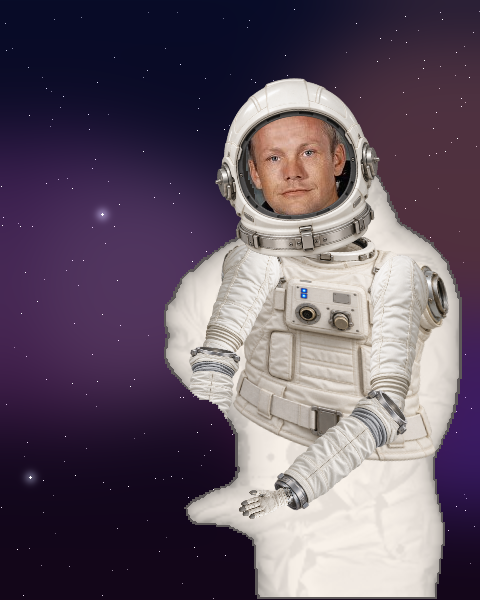
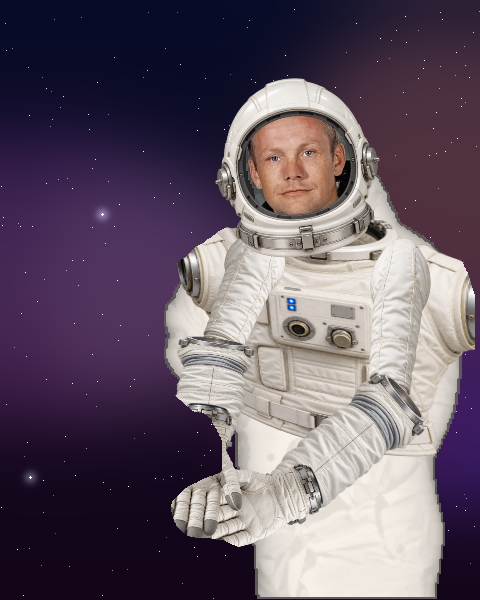
Unify EVA body proportions and enlarge connected gloves

Changed region(s): [[0.3438, 0.36, 1.0, 0.93]]

diff --git a/fruit-ninja-cv/suit_rig.py b/fruit-ninja-cv/suit_rig.py
@@ -166,6 +166,7 @@ class SuitRenderer:
         self.last_parts = []
         self.last_ms = 0.
         self._widths={}
+        self._body_size=None
         self._face_calibration=None
 
     def reset(self):
@@ -173,6 +174,7 @@ class SuitRenderer:
         self._head_time = None
         self.last_parts = []
         self._widths={}
+        self._body_size=None
         self._face_calibration=None
 
     def _head(self, face, pose, now):
@@ -208,34 +210,43 @@ class SuitRenderer:
             self.head = None
         return self.head
 
+    def body_scale(self, pose, mask):
+        """One shared garment size from shoulders and robust torso cross-sections.
+
+        These are image-space widths, not an inferred physical circumference.
+        Keep a generous fit and never resize left/right limbs independently.
+        """
+        shoulder=float(np.linalg.norm(pose.points[11,:2]-pose.points[12,:2]))
+        if shoulder<8:return shoulder
+        top=pose.points[[11,12],:2].mean(axis=0)
+        bottom=(pose.points[[23,24],:2].mean(axis=0)
+                if all(pose.valid(i) for i in (23,24)) else top+(0,shoulder*1.4))
+        samples=[]
+        for t in (.25,.4,.55,.7):
+            cx,cy=np.rint(top*(1-t)+bottom*t).astype(int)
+            if not (0<=cy<mask.shape[0] and 0<=cx<mask.shape[1] and mask[cy,cx]):continue
+            left=right=cx
+            limit=int(shoulder*.85)
+            while left>max(0,cx-limit) and mask[cy,left-1]:left-=1
+            while right<min(mask.shape[1]-1,cx+limit) and mask[cy,right+1]:right+=1
+            samples.append(right-left)
+        measured=max(shoulder,float(np.percentile(samples,35))*1.12 if samples else shoulder)
+        measured=min(measured,shoulder*1.65)
+        if self._body_size is not None and abs(measured/self._body_size-1)<.15:
+            measured=self._body_size*.6+measured*.4
+        self._body_size=measured
+        return measured
+
     def _limb(self, asset, label, a, b, width, pose, mask=None, torso=None):
-        endpoints = pose.segment(a, b)
-        if endpoints is None or np.linalg.norm(endpoints[1]-endpoints[0]) < 3:
-            return None
-        if mask is not None:
-            midpoint=endpoints.mean(axis=0)
-            inside=(torso is not None and cv2.pointPolygonTest(torso[[0,1,3,2]],tuple(map(float,midpoint)),False)>=0)
-            if not inside or asset=='upper_arm':
-                delta=endpoints[1]-endpoints[0]
-                normal=np.array((delta[1],-delta[0]))/max(np.linalg.norm(delta),1)
-                span=np.linspace(-width*.95,width*.95,65)
-                sizes=[]
-                for fraction in (.3,.5,.7):
-                    center=endpoints[0]+delta*fraction
-                    samples=np.rint(center+span[:,None]*normal).astype(int)
-                    valid=(samples[:,0]>=0)&(samples[:,0]<mask.shape[1])&(samples[:,1]>=0)&(samples[:,1]<mask.shape[0])
-                    hits=np.zeros(65,bool)
-                    hits[valid]=mask[samples[valid,1],samples[valid,0]]>0
-                    if not hits[32]:continue
-                    left=right=32
-                    while left>0 and hits[left-1]:left-=1
-                    while right<64 and hits[right+1]:right+=1
-                    sizes.append(span[right]-span[left])
-                if sizes:
-                    measured=float(np.clip(np.percentile(sizes,35)*1.06,width*.8,width*1.75))
-                    self._widths[label]=measured/width
-            width*=self._widths.get(label,1.)
-        return self._part(asset, label, endpoints, width)
+        endpoints=pose.segment(a,b)
+        if endpoints is None or np.linalg.norm(endpoints[1]-endpoints[0])<3:return None
+        # Overlap cuffs at each joint; do not expose transparent asset margins.
+        delta=endpoints[1]-endpoints[0]
+        fitted=np.array((endpoints[0]-delta*.10,endpoints[1]+delta*.10))
+        part=self._part(asset,label,fitted,width)
+        part['fit_endpoints']=fitted
+        part['endpoints']=endpoints
+        return part
 
     def _part(self, asset, label, endpoints, width):
         sprite, meta = self.assets[asset], self.meta[asset]
@@ -248,7 +259,7 @@ class SuitRenderer:
             normal=matrix[:,0].copy()
             matrix[:,2]+=normal*(2*anchors[0,0])
             matrix[:,0]=-normal
-        return dict(name=label, asset=asset, matrix=matrix, endpoints=np.asarray(endpoints).copy())
+        return dict(name=label, asset=asset, matrix=matrix, endpoints=np.asarray(endpoints).copy(),width=float(width))
 
     def _torso(self, pose, bbox, face):
         if pose is not None and all(pose.valid(i) for i in (11, 12)):
@@ -385,17 +396,23 @@ class SuitRenderer:
         cv2.copyTo(base,region,frame)
         width=0
         if pose is not None and pose.segment(11,12) is not None:
-            width=float(np.linalg.norm(pose.points[11,:2]-pose.points[12,:2]))
+            width=self.body_scale(pose,player)
         commands=[]
         quad=self._torso(pose,bbox,face_box)
         if quad is not None and pose is not None:
             quad=self._fit_waist(quad,player)
+            span=quad[1]-quad[0]
+            length=float(np.linalg.norm(span))
+            if length>2 and width>=8:
+                center=(quad[0]+quad[1])/2
+                half=span/length*max(length,width*1.1)/2
+                quad[0],quad[1]=center-half,center+half
         if width>=8:
             for side,indices in [('l',(11,13,15,19,23,25,27,31)),
                                  ('r',(12,14,16,20,24,26,28,32))]:
                 sh,el,wr,fi,hip,knee,ankle,toe=indices
-                for asset,a,b,factor,layer in [('thigh',hip,knee,.42,0),('shin',knee,ankle,.34,1),
-                                              ('upper_arm',sh,el,.42,20),('forearm',el,wr,.29,40)]:
+                for asset,a,b,factor,layer in [('thigh',hip,knee,.53,0),('shin',knee,ankle,.48,1),
+                                              ('upper_arm',sh,el,.46,20),('forearm',el,wr,.44,40)]:
                     part=self._limb(asset,asset+'_'+side,a,b,width*factor,pose,player,quad)
                     if part is not None:
                         # Far arms go behind the torso; near forearms cross in front.
@@ -408,18 +425,35 @@ class SuitRenderer:
                     direction=(b-a)/max(np.linalg.norm(b-a),1)
                     hand=np.array((b,b+direction*width*.27))
                 if hand is not None:
-                    commands.append((45,self._part('glove','glove_'+side,hand,width*.26)))
+                    direction=hand[1]-hand[0]
+                    length=float(np.linalg.norm(direction))
+                    if length<width*.12 and pose.segment(el,wr) is not None:
+                        a,b=pose.segment(el,wr);direction=b-a;length=float(np.linalg.norm(direction))
+                    direction=direction/max(length,1)
+                    wrist=hand[0].copy()
+                    hand=np.array((wrist-direction*width*.08,
+                                   wrist+direction*max(width*.40,min(np.linalg.norm(hand[1]-wrist),width*.62))))
+                    commands.append((45,self._part('glove','glove_'+side,hand,width*.46)))
                 foot=pose.segment(ankle,toe)
                 if foot is not None:
                     if np.linalg.norm(foot[1]-foot[0])<width*.17:
                         foot[1]=foot[0]+(0,width*.25)
-                    commands.append((2,self._part('boot','boot_'+side,foot,width*.34)))
+                    commands.append((2,self._part('boot','boot_'+side,foot,width*.50)))
         if quad is not None:
             sprite=self.assets['torso']
             source_quad=np.asarray(self.meta['torso']['quad'],np.float32)*(sprite.image.shape[1],sprite.image.shape[0])
             # getPerspectiveTransform wants perimeter order, not two rows.
             matrix=cv2.getPerspectiveTransform(source_quad[[0,1,3,2]].astype(np.float32),quad[[0,1,3,2]])
             commands.append((10,dict(name='torso',asset='torso',matrix=matrix,endpoints=quad)))
+        if width>=8:
+            margin=max(2,min(18,round(width*.055)))
+            kernel=cv2.getStructuringElement(cv2.MORPH_ELLIPSE,(margin*2+1,margin*2+1))
+            padded=cv2.dilate(player,kernel)
+            # Flood exterior background from an explicit padded image border.
+            exterior=cv2.copyMakeBorder((player==0).astype(np.uint8),1,1,1,1,cv2.BORDER_CONSTANT,value=1)
+            cv2.floodFill(exterior,None,(0,0),2)
+            allowed=(player>0)|((exterior[1:-1,1:-1]==2)&(padded>0))
+            clip=(allowed.astype(np.uint8)*255)
         # Keep upper-arm/torso below the helmet, wrists/gloves can occlude it.
         for layer,part in sorted(commands,key=lambda item:item[0]):
             if layer>=40:

diff --git a/fruit-ninja-cv/tests/test_suit_rig.py b/fruit-ninja-cv/tests/test_suit_rig.py
@@ -186,3 +186,24 @@ def test_torso_waist_adapts_to_body_outline_not_only_distance_between_hip_joints
     r=SuitRenderer();r.render(raw.copy(),raw,wide,pose=pose,now=0)
     second=next(p for p in r.last_parts if p['name']=='torso')['endpoints']
     assert np.linalg.norm(second[3]-second[2])>np.linalg.norm(first[3]-first[2])
+
+
+def test_common_fit_uses_torso_outline_and_is_bilateral():
+    pose=sample_pose();mask=np.zeros((200,160),np.uint8);mask[55:150,20:140]=255
+    r=SuitRenderer()
+    scale=r.body_scale(pose,mask)
+    assert scale>=np.linalg.norm(pose.points[11,:2]-pose.points[12,:2])
+    raw=np.full((200,160,3),80,np.uint8)
+    r.render(raw.copy(),raw,mask,pose=pose,now=0)
+    parts={p['name']:p for p in r.last_parts}
+    assert parts['forearm_l']['width']==parts['forearm_r']['width']
+    assert parts['glove_l']['width']>=parts['forearm_l']['width']
+
+
+def test_short_finger_projection_does_not_create_a_tiny_glove():
+    pose=sample_pose();pose.points[19,:2]=pose.points[15,:2]+(0,1)
+    raw=np.full((200,160,3),80,np.uint8)
+    r=SuitRenderer();r.render(raw.copy(),raw,np.full((200,160),255,np.uint8),pose=pose,now=0)
+    glove=next(p for p in r.last_parts if p['name']=='glove_l')
+    forearm=next(p for p in r.last_parts if p['name']=='forearm_l')
+    assert np.linalg.norm(glove['endpoints'][1]-glove['endpoints'][0])>=forearm['width']*.8

diff --git a/docs/astronaut-suit.md b/docs/astronaut-suit.md
@@ -74,7 +74,7 @@ Körperpunkte sind dann deterministische Testeingaben. `--models` nutzt zusätzl
 die echten lokalen Netze auf dem vorhandenen gemeinfreien NASA-Porträt.
 Es werden keine privaten Team- oder Kamerafotos benötigt.
 
-**Tests: 286 bestanden, 0 fehlgeschlagen, 0 Fehler, 0 übersprungen.**
+**Tests: 288 bestanden, 0 fehlgeschlagen, 0 Fehler, 0 übersprungen.**
 
 Gezielte Regressionen decken Gesichtspixel im Visier, Originalpuffer,
 Hintergrund im Helminnenraum, Alpha-Ränder, Rotation/Anker, geclipptes Rendering,
@@ -115,15 +115,15 @@ keine gemessene Kamera-zu-Bildschirm-Latenz.** Keine garantierte Live-Framerate.
 
 | Schritt | Eingabe | Median ms | P95 ms |
 | --- | --- | ---: | ---: |
-| Artikulierter Anzug inkl. Eingabekopie | synthetisch 960×720 | 25.22 | 27.94 |
-| Stifttracking | synthetisch 960×720 | 2.69 | 3.22 |
-| Pose inkl. periodischer Initialisierung | Porträt 480×600 / 256px Netz | 13.62 | 34.09 |
-| YOLO-Inferenz+Decode | Porträt 480×600 / 320px Netz | 27.74 | 30.98 |
-| YuNet-Detektion | Porträt 480×600 / 320px Netz | 6.18 | 7.90 |
-| Alle Modelle und Rendering bei jedem Aufruf | Porträt 480×600 | 69.38 | 90.72 |
-| Getaktete Pipeline (Marker, N=3 YOLO, Pose/Flow, Face, Rendering) | Porträt 480×600 | 32.11 | 72.49 |
+| Artikulierter Anzug inkl. Eingabekopie | synthetisch 960×720 | 30.47 | 33.61 |
+| Stifttracking | synthetisch 960×720 | 2.16 | 2.57 |
+| Pose inkl. periodischer Initialisierung | Porträt 480×600 / 256px Netz | 16.39 | 41.60 |
+| YOLO-Inferenz+Decode | Porträt 480×600 / 320px Netz | 28.50 | 31.52 |
+| YuNet-Detektion | Porträt 480×600 / 320px Netz | 6.34 | 7.35 |
+| Alle Modelle und Rendering bei jedem Aufruf | Porträt 480×600 | 76.21 | 98.00 |
+| Getaktete Pipeline (Marker, N=3 YOLO, Pose/Flow, Face, Rendering) | Porträt 480×600 | 40.85 | 94.75 |
 
-Der getaktete Durchlauf benötigte im Mittel **45.51 ms**, entsprechend etwa **22.0 verarbeiteten Testbildern/s** ohne Capture/Anzeige. Das ist kein 720p-Live-FPS-Wert; Komponenten mit verschiedenen Eingabegrößen
+Der getaktete Durchlauf benötigte im Mittel **56.75 ms**, entsprechend etwa **17.6 verarbeiteten Testbildern/s** ohne Capture/Anzeige. Das ist kein 720p-Live-FPS-Wert; Komponenten mit verschiedenen Eingabegrößen
 dürfen nicht einfach addiert werden. Die zusätzliche Figur kostet Rechenzeit;
 30 oder 60 Live-FPS werden auf dieser Grundlage ausdrücklich nicht zugesichert.
 Ausgabeauflösung und Inferenzintervalle am Demogerät anhand Bildqualität UND
@@ -155,3 +155,25 @@ angepasst, aber Stoff wird nicht physikalisch simuliert. Bei fehlenden Modellen
 oder unsicheren Gelenken gibt es einen begrenzten Rumpf-/Stoffpfad; ein längerer
 vollständiger Trackingverlust zeigt den echten Spieler statt schwebender Teile.
 Keine Ritterrüstung und kein neues Multiplayer-/Spielregel-Feature in dieser Änderung.
+
+
+## Einheitliche Passform (12.11.2026)
+
+Rumpf und Gliedmaßen verwenden jetzt eine gemeinsame, zeitlich stabilisierte
+Größenbasis aus Schulterabstand und mehreren Körperbreiten zwischen Schultern
+und Hüfte. Einzelne Arme/Beine werden nicht mehr separat schmalgerechnet.
+Links/rechts gelten identische Breitenverhältnisse. Schulterbereich und Taille
+passen zur gemeinsamen Körpergröße; an Ellbogen/Knien überlappen die Teile um
+zehn Prozent ihrer Segmentlänge. Handschuhe sind breiter als zuvor und haben eine
+Mindestlänge unabhängig von perspektivisch verkürzten Finger-Landmarks.
+
+Eine eng begrenzte Zugabe außerhalb der Kamerasilhouette (5,5 Prozent der
+Größenbasis, maximal 18 Pixel) lässt Raum für EVA-Polsterung und größere Hände.
+Geschlossene Zwischenräume zwischen Armen bleiben frei. Der Stift wird zuletzt
+aus dem Original wiederhergestellt. Helm-Asset und Helm-Rendering bleiben
+unverändert; neue Regressionen sichern die gemeinsame Größe und Mindesthandschuhe.
+
+Das ist eine Passformschätzung in Bildkoordinaten, keine Messung des tatsächlichen
+Körperumfangs in Zentimetern. Größere Teile kosten zusätzliche Renderzeit; aktuelle
+Messwerte stehen oben. Die Posen-Vorschauen wurden erneut erzeugt und geprüft.
+Ein neuer Live-Webcam-Test wurde für diese Korrektur nicht durchgeführt.

diff --git a/Architektur.md b/Architektur.md
@@ -399,3 +399,25 @@ Kamera ─► main (Loop, States, Input)
 ## Bewusste Nicht-Ziele
 - Kein ML für die Stifterkennung (klassische Bildverarbeitung). Ausnahme:
   Spielererkennung per Gesicht (siehe oben).
+
+
+## Einheitliche Passform (12.11.2026)
+
+Rumpf und Gliedmaßen verwenden jetzt eine gemeinsame, zeitlich stabilisierte
+Größenbasis aus Schulterabstand und mehreren Körperbreiten zwischen Schultern
+und Hüfte. Einzelne Arme/Beine werden nicht mehr separat schmalgerechnet.
+Links/rechts gelten identische Breitenverhältnisse. Schulterbereich und Taille
+passen zur gemeinsamen Körpergröße; an Ellbogen/Knien überlappen die Teile um
+zehn Prozent ihrer Segmentlänge. Handschuhe sind breiter als zuvor und haben eine
+Mindestlänge unabhängig von perspektivisch verkürzten Finger-Landmarks.
+
+Eine eng begrenzte Zugabe außerhalb der Kamerasilhouette (5,5 Prozent der
+Größenbasis, maximal 18 Pixel) lässt Raum für EVA-Polsterung und größere Hände.
+Geschlossene Zwischenräume zwischen Armen bleiben frei. Der Stift wird zuletzt
+aus dem Original wiederhergestellt. Helm-Asset und Helm-Rendering bleiben
+unverändert; neue Regressionen sichern die gemeinsame Größe und Mindesthandschuhe.
+
+Das ist eine Passformschätzung in Bildkoordinaten, keine Messung des tatsächlichen
+Körperumfangs in Zentimetern. Größere Teile kosten zusätzliche Renderzeit; aktuelle
+Messwerte stehen oben. Die Posen-Vorschauen wurden erneut erzeugt und geprüft.
+Ein neuer Live-Webcam-Test wurde für diese Korrektur nicht durchgeführt.
